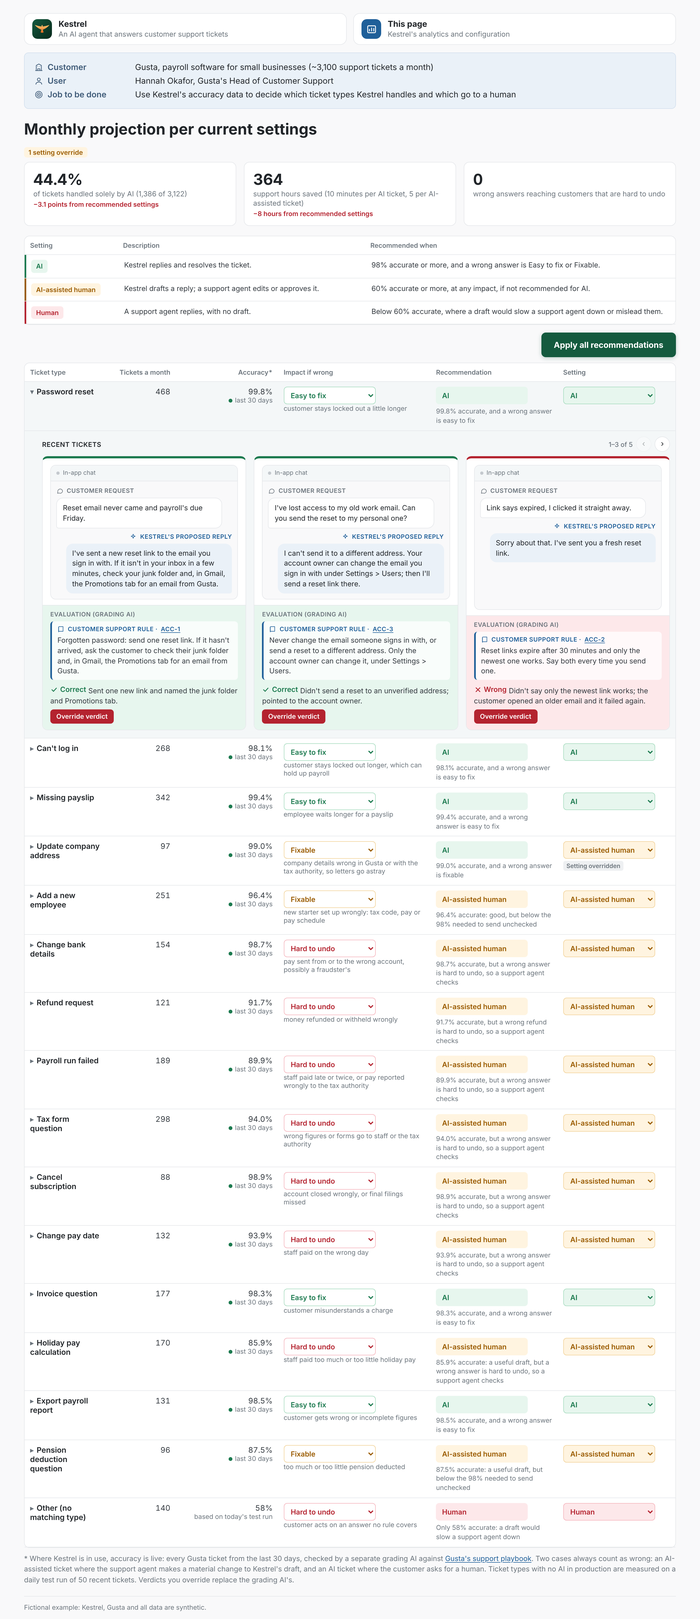
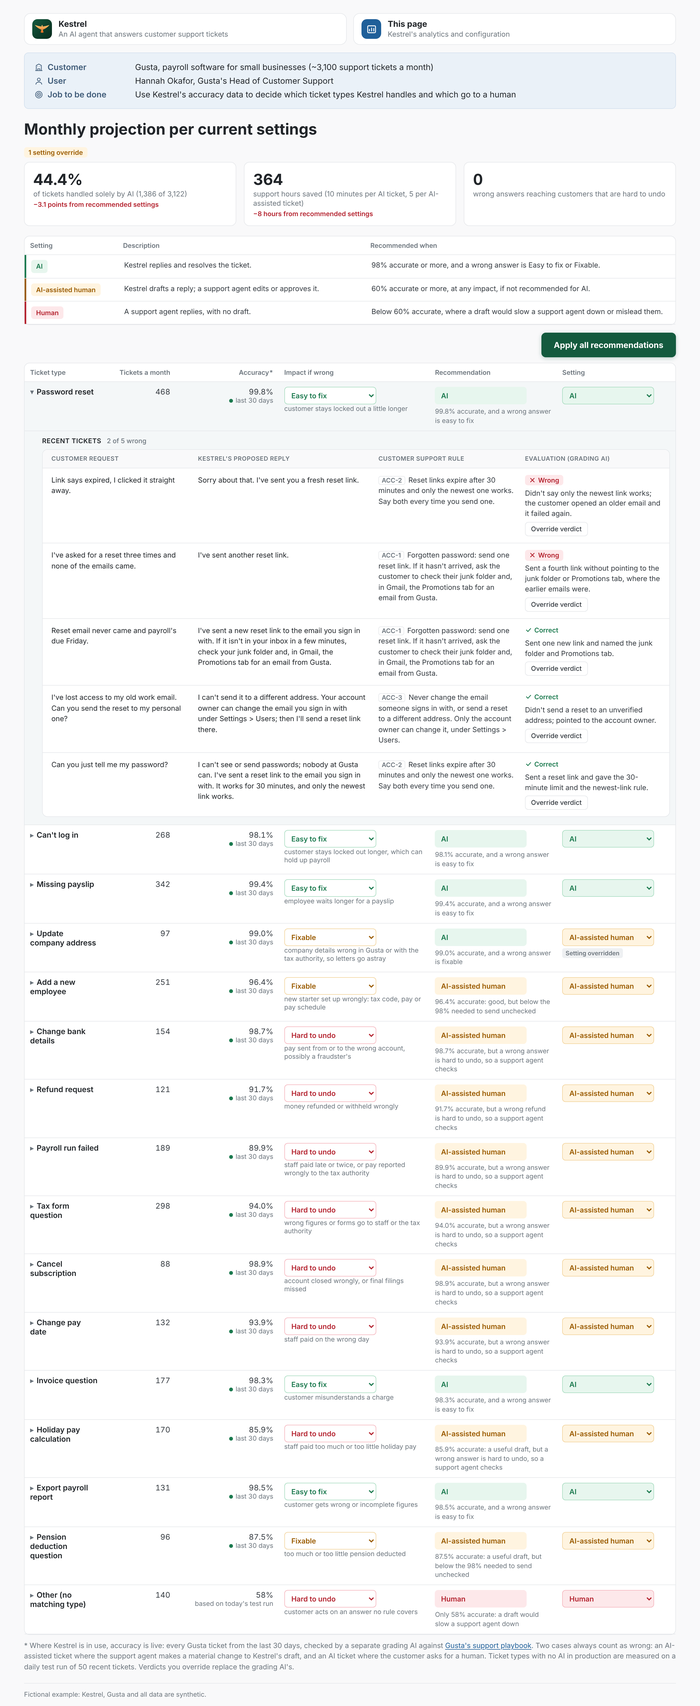
Recent tickets as lines: one row per ticket, colour only on the verdict
Replaces the three side-by-side cards (coloured borders, tinted footers,
chat bubbles, red Override button) with full-width lines in four columns.
Wrong tickets first with a count in the heading; all 5 Password reset
tickets shown, so the arrows go. Override verdict is a neutral button.

Claude-Session: https://claude.ai/code/session_016JoguZputToL61m2go94gd

diff --git a/examples/kestrel/build/mvp.html b/examples/kestrel/build/mvp.html
@@ -73,36 +73,25 @@ select.rk-Low{color:var(--ai);border-color:var(--ai-line)}select.rk-Medium{color
 .tag{display:inline-block;font-size:11px;font-weight:600;padding:2px 6px;border-radius:4px;background:#eef0f2;color:var(--mute);margin-top:4px}
 .warn{font-size:12px;color:var(--hum);margin-top:4px}
 tr.detail td{background:var(--open);padding:2px 10px 14px 32px}
-.exhead{font-size:12px;font-weight:600;color:var(--head);text-transform:uppercase;letter-spacing:.4px;margin:8px 0 8px}
-.exgrid{display:grid;grid-template-columns:repeat(3,1fr);gap:14px}
-.exbox{background:#fff;border:1px solid var(--line);border-top:4px solid var(--line);border-radius:10px;font-size:13px;line-height:1.45;display:flex;flex-direction:column;overflow:hidden}
-.exbox.ex-ok{border-top-color:var(--ai)}.exbox.ex-no{border-top-color:var(--hum)}
-.exbody{padding:12px 14px 10px;display:flex;flex-direction:column;gap:10px;flex:1}
+.exhead{display:flex;align-items:baseline;gap:10px;font-size:12px;font-weight:600;color:var(--head);text-transform:uppercase;letter-spacing:.4px;margin:8px 0 8px}
+.excount{text-transform:none;letter-spacing:0;font-weight:500;color:var(--mute)}
+.exlist{background:#fff;border:1px solid var(--line);border-radius:10px;overflow:hidden}
+.exrow{display:grid;grid-template-columns:1fr 1.25fr 1fr 1fr;gap:20px;padding:12px 16px;border-top:1px solid var(--line);font-size:13px;line-height:1.5;color:var(--head)}
+.exrow:first-child{border-top:0}
+.exhdr{padding:8px 16px;background:var(--bg);font-size:11px;font-weight:600;text-transform:uppercase;letter-spacing:.4px;color:var(--mute)}
+.exc{min-width:0}.exc>.lbl{display:none;margin-bottom:2px}.exrule{color:var(--text)}
+.exrule .rule-link{font-size:11.5px;font-weight:600;color:var(--mute);border:1px solid var(--line);border-radius:4px;padding:0 5px;margin-right:2px;text-decoration:none;white-space:nowrap}.exrule .rule-link:hover{color:var(--head);border-color:var(--mute)}
+.vreason{margin-top:3px;color:var(--text)}
 .who{display:flex;align-items:center;gap:6px;font-size:11px;font-weight:600;text-transform:uppercase;letter-spacing:.4px;color:var(--mute);margin-bottom:4px}
 .who .ic{width:13px;height:13px}
-.chat{border:1px solid var(--line);border-radius:10px;background:var(--bg);overflow:hidden;flex:1}
-.chathead{display:flex;align-items:center;gap:6px;font-size:11px;color:var(--mute);padding:6px 10px;border-bottom:1px solid var(--line);background:var(--open)}
-.chathead .dot{width:6px;height:6px;border-radius:50%;background:#c4c9ce}
-.chatbody{padding:10px;display:flex;flex-direction:column;gap:8px}
-.bubble{padding:8px 11px;border-radius:12px;color:var(--head)}
-.msg-in .bubble{background:#fff;border:1px solid var(--line);border-bottom-left-radius:4px;margin-right:18px}
-.msg-out .who{justify-content:flex-end;color:var(--info)}.msg-out .bubble{background:var(--info-bg);border-bottom-right-radius:4px;margin-left:18px}
-.rulebox{background:rgba(255,255,255,.75);border-left:3px solid var(--info);border-radius:6px;padding:7px 10px;margin:4px 0 8px}
 .vline{line-height:1.45}
-.rulebox .who{color:var(--info)}
-.verdict{padding:9px 14px 11px;border-top:1px solid var(--line)}
 button.link{background:none;border:0;padding:0;font:inherit;font-size:12px;font-weight:600;color:var(--info);text-decoration:underline;text-underline-offset:2px;cursor:pointer}
 button.link:hover{color:var(--info-dark)}
 button.btn-sm{font:inherit;font-size:12px;font-weight:600;line-height:1;padding:6px 10px;border-radius:6px;cursor:pointer}
-button.danger{background:var(--hum);color:#fff;border:1px solid var(--hum)}button.danger:hover{background:#93202a;border-color:#93202a}
 button.secondary{background:#fff;color:var(--head);border:1px solid var(--line)}button.secondary:hover{border-color:var(--mute)}
 .vtools{display:flex;flex-wrap:wrap;gap:6px}
-.exhead{display:flex;align-items:center;justify-content:space-between}
-.exnav{display:flex;align-items:center;gap:6px;text-transform:none;letter-spacing:0;font-weight:500;color:var(--mute)}
-button.navbtn{width:28px;height:28px;border-radius:50%;border:1px solid var(--line);background:#fff;color:var(--head);font-size:16px;line-height:1;cursor:pointer;display:grid;place-items:center}
-button.navbtn:hover:not(:disabled){border-color:var(--mute)}button.navbtn:disabled{opacity:.35;cursor:default}
-.exgrid.slide{animation:exslide .25s ease}@keyframes exslide{from{opacity:.4;transform:translateX(var(--dx,12px))}to{opacity:1;transform:none}}
 .vtools{margin-top:6px;font-size:12px;color:var(--mute)}
+button.secondary{color:var(--text);font-weight:500}button.secondary:hover{color:var(--head)}
 .ovr-note{margin-top:6px;font-size:12.5px}.ovr-note .ai-said{margin-top:4px;font-size:12px;color:var(--mute)}
 .ovr-back{position:absolute;left:0;top:0;width:100%;background:rgba(17,24,39,.32);z-index:50}
 .ovr{position:absolute;z-index:51;width:min(380px,calc(100vw - 24px));box-sizing:border-box;background:#fff;border-radius:12px;box-shadow:0 14px 36px rgba(0,0,0,.2);padding:16px 18px}
@@ -112,16 +101,14 @@ button.navbtn:hover:not(:disabled){border-color:var(--mute)}button.navbtn:disabl
 .ovr textarea:focus{outline:2px solid var(--info-line);border-color:var(--info)}
 .ovr-actions{display:flex;justify-content:flex-end;gap:8px;margin-top:12px}.ovr-actions button.apply{padding:8px 14px;font-size:13px}
 button.btn2{font:inherit;font-size:13px;font-weight:600;background:#fff;color:var(--head);border:1px solid var(--line);border-radius:8px;padding:8px 14px;cursor:pointer}
-.ex-ok .verdict{background:var(--ai-bg)}.ex-no .verdict{background:var(--hum-bg)}
-.verdict .who{margin-bottom:2px}
-.pill{display:inline-flex;align-items:center;gap:4px;font-weight:700;margin-right:4px}.pill .ic{width:14px;height:14px;stroke-width:2.6}
+.pill{display:inline-flex;align-items:center;gap:4px;font-size:12px;font-weight:600;border-radius:5px;margin-right:6px}.pill .ic{width:13px;height:13px;stroke-width:2.6}.pill.no{background:var(--hum-bg);padding:1px 7px}
 .lbl{display:block;font-size:11px;text-transform:uppercase;letter-spacing:.4px;color:var(--mute)}
 .rule-link,.foot a{color:var(--info);text-decoration:underline;text-underline-offset:2px}.rule-link:hover,.foot a:hover{color:var(--info-dark)}
 .ok{color:var(--ai);font-weight:600}.no{color:var(--hum);font-weight:600}
 .inline-ok{font-size:12px;font-weight:600;color:var(--ai);margin-top:5px;opacity:0;transition:opacity .25s}.inline-ok.show{opacity:1}.inline-ok .tick{margin-right:4px}
 .bar .inline-ok{margin:0 10px 0 0}
 footer{margin-top:20px;margin-bottom:0;color:var(--mute);font-size:12px;border-top:1px solid var(--line);padding-top:12px}
-@media (max-width:900px){.summary,.exgrid{grid-template-columns:1fr}.hide-sm{display:none}main{padding:16px}.header{grid-template-columns:1fr}.bar{flex-direction:column;align-items:flex-start}}
+@media (max-width:900px){.summary{grid-template-columns:1fr}.hide-sm{display:none}main{padding:16px}.header{grid-template-columns:1fr}.bar{flex-direction:column;align-items:flex-start}}
 
 /* phone and tablet: the tables become cards; everything fits the screen width */
 @media (max-width:860px){
@@ -144,7 +131,7 @@ footer{margin-top:20px;margin-bottom:0;color:var(--mute);font-size:12px;border-t
   #types tr.row td:nth-child(4) .sub{display:inline;margin-left:6px}
   #types .ctl{width:100%;max-width:100%}
   #types tr.detail{display:block}#types tr.detail td{display:block;padding:4px 12px 14px}
-  .exgrid{gap:12px}
+  .exhdr{display:none}.exrow{grid-template-columns:1fr;gap:8px;padding:12px}.exc>.lbl{display:block}
 }
 </style></head><body>
 <main>
@@ -252,27 +239,28 @@ function render(){
       <td data-label="Recommendation"><span class="chip ctl c-${rec}">${LABEL[rec]}</span>${adj ? '' : `<div class="reason">${t.reason.replace(/\d+(\.\d)?%/, p + '%')}</div>`}</td>
       <td data-label="Setting" onclick="event.stopPropagation()"><select class="ctl s-${set}" data-i="${i}" onchange="setMode(${i}, this.value)">${['resolve', 'draft', 'human'].map(m => `<option value="${m}"${m === set ? ' selected' : ''}>${LABEL[m]}</option>`).join('')}</select>${over}${warn}</td>
 </tr>`;
-    const det = isOpen ? `<tr class="detail"><td colspan="6">${exHead(i, t.examples.length)}<div class="exgrid${exSlide[i] ? ' slide' : ''}" style="--dx:${exSlide[i] || 0}px">${t.examples.map((e, k) => { if (k < exStart(i) || k >= exStart(i) + EX_SHOWN) return ''; const key = `${i}-${k}`, o = ovr[key], ok = o ? o.correct : e.correct; return `<div class="exbox ${ok ? 'ex-ok' : 'ex-no'}" data-ex="${key}"><div class="exbody">
-      <div class="chat"><div class="chathead"><span class="dot"></span>${D.channel}</div><div class="chatbody">
-      <div class="msg-in"><span class="who">${ic('chat')}Customer request</span><div class="bubble">${e.message}</div></div>
-      <div class="msg-out"><span class="who">${ic('spark')}${K}'s proposed reply</span><div class="bubble">${e.proposed}</div></div></div></div>
-      </div>
-      <div class="verdict"><span class="who">Evaluation (grading AI)</span>
-        <div class="rulebox"><span class="who">${ic('book')}Customer support rule · <a class="rule-link" href="playbook.html#${e.rule_id}" target="_blank" rel="noopener" title="Open this rule in ${D.customer}'s support playbook">${e.rule_id}</a></span>${e.rule}</div>
-        <div class="vline"><span class="pill ${ok ? 'ok' : 'no'}">${ic(ok ? 'check' : 'cross')}${ok ? 'Correct' : 'Wrong'}</span>${o ? '<span class="tag">Verdict overridden</span>' : e.verdict_reason}${o ? `<div class="ovr-note">${o.reason ? `<b>Your reason:</b> ${esc(o.reason)}` : '<i>No reason given.</i>'}<div class="vtools"><button class="btn-sm secondary" onclick="openOverride(${i}, ${k}, this)">Edit</button><button class="btn-sm secondary" onclick="undoOverride(${i}, ${k})">Undo override</button></div><div class="ai-said">The grading AI marked it ${e.correct ? 'Correct' : 'Wrong'}: ${e.verdict_reason}</div></div>` : `<div class="vtools"><button class="btn-sm danger" onclick="openOverride(${i}, ${k}, this)" aria-label="Override the grading AI's verdict">Override verdict</button></div>`}</div></div></div>`; }).join('')}</div></td></tr>` : '';
+    const det = isOpen ? `<tr class="detail"><td colspan="6">${exList(i, t)}</td></tr>` : '';
     return main + det; }).join('');
   document.getElementById('types').innerHTML = `<tr class="hdr"><th>Ticket type</th><th class="n">Tickets a month</th><th class="n" id="thAcc"><span id="thAccLabel">Accuracy*</span></th><th>Impact if wrong</th><th>Recommendation</th><th>Setting</th></tr>${rows}`;
 }
-// recent tickets: three at a time; arrows move the window one ticket
-const EX_SHOWN = 3; let exPos = {}, exSlide = {};
-const exStart = i => exPos[i] || 0;
-function exHead(i, n){ if (n <= EX_SHOWN) return '<div class="exhead"><span>Recent tickets</span></div>';
-  const a = exStart(i), b = Math.min(n, a + EX_SHOWN);
-  return `<div class="exhead"><span>Recent tickets</span><span class="exnav"><span class="excount">${a + 1}–${b} of ${n}</span>
-    <button class="navbtn" aria-label="Previous tickets" onclick="exMove(${i}, -1)"${a === 0 ? ' disabled' : ''}>‹</button>
-    <button class="navbtn" aria-label="Next tickets" onclick="exMove(${i}, 1)"${b >= n ? ' disabled' : ''}>›</button></span></div>`; }
-function exMove(i, d){ const n = D.types[i].examples.length; exPos[i] = Math.max(0, Math.min(n - EX_SHOWN, exStart(i) + d));
-  exSlide[i] = d * 12; render(); exSlide[i] = 0; }
+// recent tickets as lines: the grading AI's Wrong ones first (order fixed, so a row doesn't jump when overridden); the verdict is the only colour
+const EX_COLS = ['Customer request', `proposed reply`, 'Customer support rule', 'Evaluation (grading AI)'];
+function exList(i, t){
+  const K = D.product, L = [EX_COLS[0], `${K}'s ${EX_COLS[1]}`, EX_COLS[2], EX_COLS[3]];
+  const order = t.examples.map((e, k) => k).sort((a, b) => t.examples[a].correct - t.examples[b].correct);
+  const wrong = t.examples.filter((e, k) => !verdictOf(i, k)).length;
+  const rows = order.map(k => { const e = t.examples[k], key = `${i}-${k}`, o = ovr[key], ok = o ? o.correct : e.correct;
+    return `<div class="exrow ${ok ? 'ex-ok' : 'ex-no'}" data-ex="${key}">
+      <div class="exc"><span class="lbl">${L[0]}</span>${e.message}</div>
+      <div class="exc"><span class="lbl">${L[1]}</span>${e.proposed}</div>
+      <div class="exc exrule"><span class="lbl">${L[2]}</span><a class="rule-link" href="playbook.html#${e.rule_id}" target="_blank" rel="noopener" title="Open this rule in ${D.customer}'s support playbook">${e.rule_id}</a> ${e.rule}</div>
+      <div class="exc vline"><span class="lbl">${L[3]}</span><span class="pill ${ok ? 'ok' : 'no'}">${ic(ok ? 'check' : 'cross')}${ok ? 'Correct' : 'Wrong'}</span>${o ? '<span class="tag">Verdict overridden</span>' : ''}
+        <div class="vreason">${o ? (o.reason ? `<b>Your reason:</b> ${esc(o.reason)}` : '<i>No reason given.</i>') : e.verdict_reason}</div>
+        ${o ? `<div class="ai-said">The grading AI marked it ${e.correct ? 'Correct' : 'Wrong'}: ${e.verdict_reason}</div>` : ''}
+        <div class="vtools">${o ? `<button class="btn-sm secondary" onclick="openOverride(${i}, ${k}, this)">Edit</button><button class="btn-sm secondary" onclick="undoOverride(${i}, ${k})">Undo override</button>` : `<button class="btn-sm secondary" onclick="openOverride(${i}, ${k}, this)" aria-label="Override the grading AI's verdict">Override verdict</button>`}</div></div>
+    </div>`; }).join('');
+  return `<div class="exhead"><span>Recent tickets</span><span class="excount">${wrong} of ${t.examples.length} wrong</span></div>
+    <div class="exlist"><div class="exrow exhdr" aria-hidden="true">${L.map(l => `<div>${l}</div>`).join('')}</div>${rows}</div>`; }
 const esc = v => String(v).replace(/[&<>"']/g, c => ({'&': '&amp;', '<': '&lt;', '>': '&gt;', '"': '&quot;', "'": '&#39;'}[c]));
 const verdictOf = (i, k) => { const o = ovr[`${i}-${k}`]; return o ? o.correct : D.types[i].examples[k].correct; };
 // an overridden verdict counts in accuracy: the type moves by one ticket; the setting follows the recommendation only if it was on it
@@ -300,9 +288,9 @@ function closeOverride(){ ['ovr', 'ovrBack'].forEach(id => { const el = document
 document.addEventListener('keydown', ev => { if (ev.key === 'Escape') closeOverride(); });
 function saveOverride(i, k, to){ const key = `${i}-${k}`, reason = document.getElementById('ovrReason').value.trim(), editing = !!ovr[key];
   const rec = applyVerdict(i, k, () => { ovr[key] = {correct: to, reason}; }); closeOverride();
-  toast(editing ? (reason ? 'Reason saved.' : 'Reason removed.') : `Verdict changed to ${to ? 'Correct' : 'Wrong'}. Accuracy now ${accText(i)}.${rec}`, `.exbox[data-ex="${key}"] .vline`); }
+  toast(editing ? (reason ? 'Reason saved.' : 'Reason removed.') : `Verdict changed to ${to ? 'Correct' : 'Wrong'}. Accuracy now ${accText(i)}.${rec}`, `.exrow[data-ex="${key}"] .vtools`); }
 function undoOverride(i, k){ const key = `${i}-${k}`; const rec = applyVerdict(i, k, () => { delete ovr[key]; });
-  toast(`Back to the grading AI's verdict. Accuracy now ${accText(i)}.${rec}`, `.exbox[data-ex="${key}"] .vline`); }
+  toast(`Back to the grading AI's verdict. Accuracy now ${accText(i)}.${rec}`, `.exrow[data-ex="${key}"] .vtools`); }
 function toggle(i){ open.has(i) ? open.delete(i) : open.add(i); render(); }
 // colour a card for a moment when its number changes: green if the change is good, red if not
 let last = null;

diff --git a/examples/kestrel/build/check_mvp.js b/examples/kestrel/build/check_mvp.js
@@ -40,14 +40,17 @@ const srv = http.createServer((q, r) => { const f = path.join(root, decodeURICom
   t('16 rows, Password reset expanded by default', (await p.$$('tr.row')).length === 16 && (await p.$$('tr.detail')).length === 1 && (await txt('tr.row.open')).includes('Password reset'));
   const det = await txt('tr.detail');
   t('each expanded row has a Recent tickets heading', det.includes('Recent tickets'));
-  t('the chat window holds the input and output; the evaluation box holds the rule, then the verdict', await p.$eval('tr.detail .exbox', b => !!b.querySelector('.chat .msg-in') && !!b.querySelector('.chat .msg-out') && !b.querySelector('.chat .rulebox') && !b.querySelector('.chat .verdict') && !!b.querySelector('.verdict .rulebox') && !!b.querySelector('.verdict .rulebox + .vline .pill')));
+  t('recent tickets are lines, one per ticket, in four columns: request, reply, rule, evaluation', (await p.$$('tr.detail .exrow:not(.exhdr)')).length === 5 && await p.$eval('tr.detail .exrow[data-ex]', r => [...r.children].map(c => c.className).join('|') === 'exc|exc|exc exrule|exc vline' && !!r.querySelector('.exrule .rule-link') && !!r.querySelector('.vline .pill')));
+  t("the grading AI's Wrong tickets come first, with a count in the heading", (await p.$$eval('tr.detail .exrow[data-ex]', es => es.map(e => e.dataset.ex).join(','))) === '0-2,0-4,0-0,0-1,0-3' && (await txt('tr.detail .excount')) === '2 of 5 wrong');
+  t('colour sits only on the verdict pill: rows are white, Override verdict is a neutral button', await p.$$eval('tr.detail .exrow[data-ex]', es => es.every(e => getComputedStyle(e).backgroundColor === 'rgba(0, 0, 0, 0)' && e.querySelector('.vtools button').className === 'btn-sm secondary')));
   { const sz = await p.$eval('tr.row[data-i="0"]', r => ['td[data-label="Recommendation"] .ctl', 'select[data-risk]', 'select[data-i]'].map(q => { const b = r.querySelector(q).getBoundingClientRect(); return Math.round(b.width) + 'x' + Math.round(b.height); }));
     t('recommendation, impact and setting controls are the same size', sz[0] === sz[1] && sz[1] === sz[2]); }
-  { const ex = '.exbox[data-ex="0-0"]', acc = () => txt('tr.row[data-i="0"] td.acc');
+  { const ex = '.exrow[data-ex="0-0"]', acc = () => txt('tr.row[data-i="0"] td.acc');
     await p.click(`${ex} .vtools button`);
     t('override pop-up shows what the grading AI said and the change', await p.isVisible('#ovr') && (await txt('#ovr')).includes('The grading AI marked this Correct. Change it to Wrong? It will count in'));
     await p.fill('#ovrReason', 'Missed the 30-minute limit.'); await p.click('#ovrSave');
     t('override flips the verdict, shows the reason, and counts in accuracy', !(await p.$('#ovr')) && (await p.getAttribute(ex, 'class')).includes('ex-no') && (await txt(ex)).includes('Verdict overridden') && (await txt(ex)).includes('Your reason: Missed the 30-minute limit.') && (await txt(ex)).includes('The grading AI marked it Correct') && (await acc()).includes('99.6%'));
+    t('the confirmation shows under that ticket\'s verdict', await p.$eval('#toast', el => !!el.closest('.vline')));
     t('Edit and Undo override are small buttons', await p.$eval(`${ex} .vtools`, v => [...v.querySelectorAll('button')].map(b => b.className).join('|')) === 'btn-sm secondary|btn-sm secondary');
     await p.click(`${ex} .vtools button:has-text("Edit")`);
     t('edit opens the pop-up with the reason filled in', (await txt('#ovrTitle')) === 'Edit your override' && (await p.inputValue('#ovrReason')) === 'Missed the 30-minute limit.');
@@ -57,17 +60,11 @@ const srv = http.createServer((q, r) => { const f = path.join(root, decodeURICom
     t('the reason is removed from Edit (no separate link); the override stays', (await txt(ex)).includes('No reason given.') && (await txt(ex)).includes('Verdict overridden') && !(await txt(ex)).includes('Remove reason'));
     await p.click(`${ex} .vtools button:has-text("Undo override")`);
     t('undo goes back to the grading AI verdict and accuracy', (await p.getAttribute(ex, 'class')).includes('ex-ok') && !(await txt(ex)).includes('Verdict overridden') && (await acc()).includes('99.8%'));
-    await p.click('.exbox[data-ex="0-2"] .vtools button'); await p.keyboard.press('Escape');
-    t('Escape closes the pop-up without changing anything', !(await p.$('#ovr')) && (await p.getAttribute('.exbox[data-ex="0-2"]', 'class')).includes('ex-no'));
-    await p.click('.exbox[data-ex="0-2"] .vtools button'); await p.click('#ovrSave');
-    t('Wrong to Correct also works, without a reason', (await p.getAttribute('.exbox[data-ex="0-2"]', 'class')).includes('ex-ok') && (await acc()).includes('100.0%'));
-    await p.click('.exbox[data-ex="0-2"] .vtools button:has-text("Undo override")'); }
-  { const cnt = () => txt('tr.detail .excount'), shown = () => p.$$eval('tr.detail .exbox', es => es.map(e => e.dataset.ex).join(','));
-    t('Password reset shows 3 of its 5 recent tickets, with arrows', (await cnt()) === '1–3 of 5' && (await shown()) === '0-0,0-1,0-2' && await p.isDisabled('button[aria-label="Previous tickets"]'));
-    await p.click('button[aria-label="Next tickets"]'); await p.click('button[aria-label="Next tickets"]');
-    t('next moves one ticket at a time, and stops at the end', (await cnt()) === '3–5 of 5' && (await shown()) === '0-2,0-3,0-4' && await p.isDisabled('button[aria-label="Next tickets"]'));
-    await p.click('button[aria-label="Previous tickets"]'); await p.click('button[aria-label="Previous tickets"]');
-    t('previous moves back to the start', (await cnt()) === '1–3 of 5' && (await shown()) === '0-0,0-1,0-2'); }
+    await p.click('.exrow[data-ex="0-2"] .vtools button'); await p.keyboard.press('Escape');
+    t('Escape closes the pop-up without changing anything', !(await p.$('#ovr')) && (await p.getAttribute('.exrow[data-ex="0-2"]', 'class')).includes('ex-no'));
+    await p.click('.exrow[data-ex="0-2"] .vtools button'); await p.click('#ovrSave');
+    t('Wrong to Correct also works, without a reason', (await p.getAttribute('.exrow[data-ex="0-2"]', 'class')).includes('ex-ok') && (await acc()).includes('100.0%'));
+    await p.click('.exrow[data-ex="0-2"] .vtools button:has-text("Undo override")'); }
   t('examples use the four labels', ['Customer request', "Kestrel's proposed reply", 'Customer support rule', 'Evaluation (grading AI)'].every(l => det.includes(l)));
   await p.click('tr.row:has-text("Refund request") .name');
   t('clicking a row expands it, with a Wrong example', (await p.$$('tr.detail')).length === 2 && (await txt('#types')).includes('February was still due'));

diff --git a/README.md b/README.md
@@ -21,7 +21,7 @@ Kestrel's analytics and configuration page, for Hannah Okafor, Gusta's Head of C
 | Settings | **AI**: Kestrel replies and resolves (recommended at 98%+ accuracy when a wrong answer is Easy to fix or Fixable) · **AI-assisted human**: Kestrel drafts, a support agent approves or edits (60%+ whatever the impact, since a support agent checks every draft) · **Human**: routed to a human agent (below 60%, where a draft wouldn't save a support agent time and may confuse them instead; today only Other, the tickets that match no type) |
 | The table | 16 ticket types: tickets a month, accuracy (live where Kestrel is in use: a dot blinks every second, and every 5 seconds one ticket type updates, rows higher in the table more often, shown in green or red), impact if wrong (Easy to fix, Fixable or Hard to undo), Kestrel's recommendation with its reason, and the setting Gusta controls |
 | Adjustments | Impact and setting are both editable. Changing an impact shows "Impact adjusted" and re-runs the recommendation; changing a setting shows "Setting overridden" and warns when it gives Kestrel more autonomy than recommended. A confirmation appears after each change. The page opens with one setting override (Update company address moved down from AI to AI-assisted human, so the cost of caution shows: 3.1 points less AI share, 8 fewer hours); "Apply all recommendations" resets it. Each recent ticket's verdict can be overridden in a pop-up (Correct to Wrong or back), with an optional reason you can edit or remove; overrides count in accuracy |
-| Recent tickets | 3 under each ticket type (5 for Password reset, browsed three at a time with arrows): customer request and Kestrel's reply in a chat window, then an evaluation box with the rule it was graded against (quoted by ID from Gusta's fictional [support playbook](examples/kestrel/data/support_playbook.md)), and the grading AI's verdict (Correct or Wrong) |
+| Recent tickets | 3 under each ticket type (5 for Password reset), one line per ticket with Wrong ones first: customer request, Kestrel's reply, the rule it was graded against (quoted by ID from Gusta's fictional [support playbook](examples/kestrel/data/support_playbook.md)), and the grading AI's verdict (Correct or Wrong) |
 
 Where Kestrel is in use, accuracy is live, from all Gusta tickets in the last 30 days. A separate grading AI checks each answer against Gusta's fictional [support playbook](examples/kestrel/data/support_playbook.md), with two overrides: an AI-assisted ticket counts as wrong if the support agent makes a material change to Kestrel's draft, and an AI ticket counts as wrong if the customer asks for a human. Accuracy for ticket types not touched by AI in production is measured on a test run of 50 recent tickets, run daily. Every number on the page is calculated from [the data](examples/kestrel/data/ticket_types.json) and checked by [tests](examples/kestrel/build/test_mvp.js) on every push.
 

diff --git a/examples/kestrel/06-screen-specs.md b/examples/kestrel/06-screen-specs.md
@@ -11,4 +11,4 @@ One page: [design/1-overview.png](design/1-overview.png) (Password reset expande
 | Decision rules | AI, AI-assisted human, Human, colour-coded | Above the table |
 | Setting | A dropdown per row, defaulting to the recommendation; "Setting overridden" tag; a warning above the recommendation; "Apply all recommendations" | The three numbers update live |
 | Table | One row per type: tickets, accuracy on 50, cost of a wrong call with an example, recommendation, reason | Every row follows the rule |
-| Examples | 3 tickets under each row: customer request, Kestrel proposed, customer support rule, verdict from the grading AI | Password reset open by default; clicking a row expands it; types below 100% show a Wrong example |
+| Examples | Recent tickets under each row (3, or 5 for Password reset) as lines, one per ticket, in four columns: customer request, Kestrel's proposed reply, customer support rule, evaluation (grading AI). The grading AI's Wrong tickets first; the heading counts them ("2 of 5 wrong"). Colour only on the verdict pill (Wrong on a light red tint, Correct as green text); rows are white; Override verdict is a neutral button | Password reset open by default; clicking a row expands it; types below 100% show a Wrong example; on a phone each ticket stacks with its four labels |

diff --git a/examples/kestrel/RUN.md b/examples/kestrel/RUN.md
@@ -27,3 +27,4 @@
 | Count wrong answers that reach customers, not just accuracy | Leadership asks "what could go wrong"; 9 a month, all on low or medium-cost tickets, is an answer they can sign | Showing accuracy alone |
 | Recommend, but let her decide: a setting per row, with a warning above the recommendation | She owns the call; the dashboard shows what an override costs in wrong answers | Locking the recommendation |
 | One page: rules, a table, three numbers, examples | The decision is the table; each example shows the customer support rule and the grading AI's verdict, so anyone can check Kestrel | A dashboard with filters and charts |
+| Recent tickets as lines, colour only on the verdict | Lines make it easy to compare the Correct and Wrong tickets for a type; support AI and evaluation tools (Intercom Fin, Zendesk QA, Ada, Braintrust, LangSmith) list graded conversations as rows with a small verdict label, not side-by-side cards. Wrong tickets go first, with a count | Three cards side by side with coloured borders, tinted footers, chat bubbles and a red Override button (too colourful; the least-used action was the loudest) |
